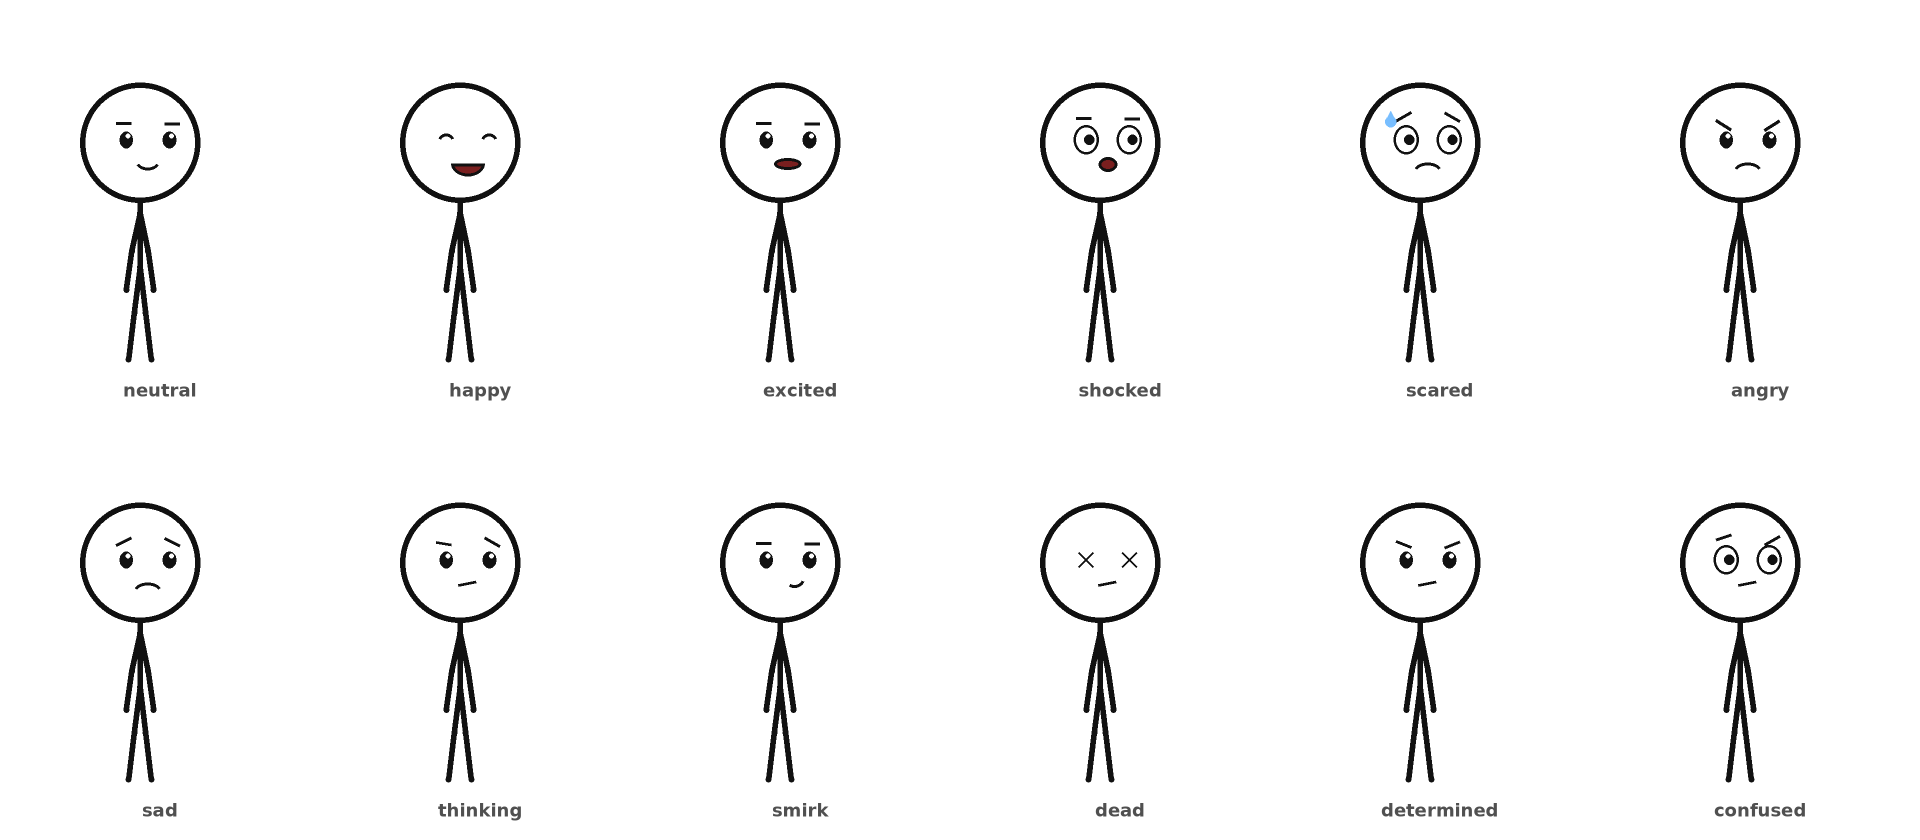
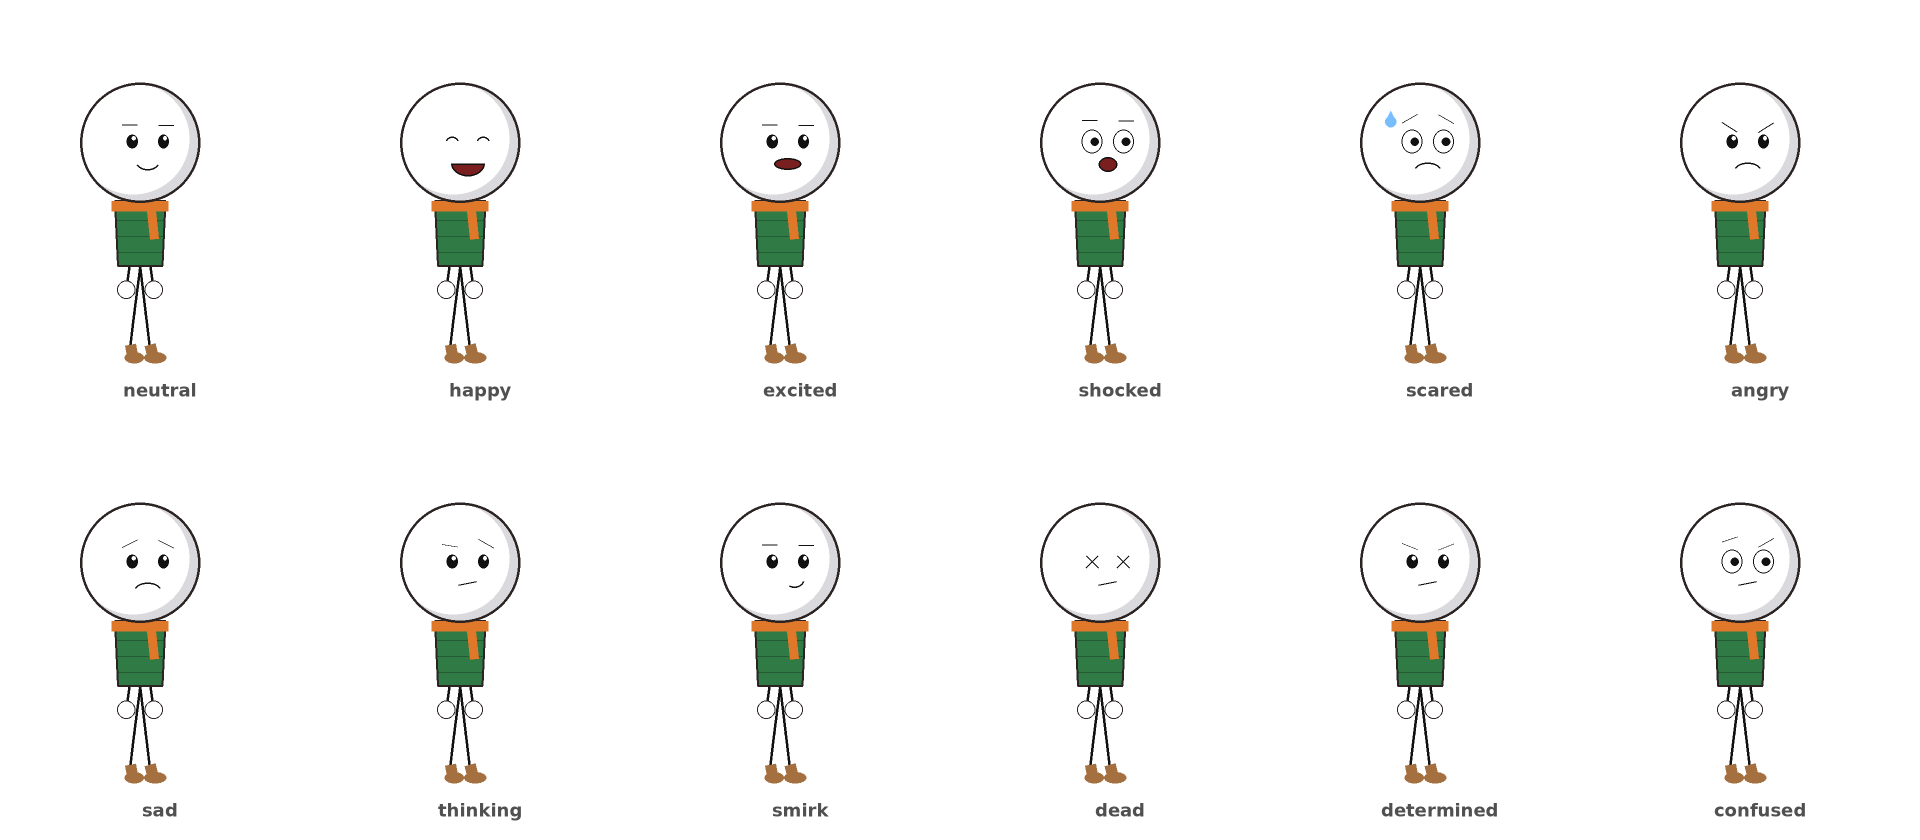
GLAVONJA channel style from 8 real frames: Flow image+motion prompts with exact character description, character references, outfit for fallback character, style migration
Claude-Session: https://claude.ai/code/session_01SEfkzHoZcuciyQGJhcXRDG

diff --git a/GLAVONJA_AI_STUDIO/studio/google_ai.py b/GLAVONJA_AI_STUDIO/studio/google_ai.py
@@ -164,16 +164,28 @@ def audition_voices(sample_text: str, voices: list[str], out_dir: Path, settings
 
 
 # --------------------------------------------------------------------------- Flow bridge
-FLOW_PROMPT = """{shot}
+FLOW_IMAGE_PROMPT = """{shot}
 
-STYLE (must match the GLAVONJA YouTube channel exactly - see attached reference images):
 {style}
+{glavonja}.
+Other characters: {characters}; {extras}.
+Colours and light: {palette}.
+Camera: {camera}.
+Keep GLAVONJA exactly like the attached character reference images (same head, face, outfit, proportions).
+Avoid: {avoid}."""
 
-CHARACTER: the SAME stickman as in the attached character sheet. Do NOT redesign him: same head size,
-same line thickness, same face, same colours, same clothing.  2D flat cartoon, thick clean outlines,
-no 3D, no realistic textures, no text in the image.
-Camera: {camera}.  Duration: {dur:.1f} s.  16:9.
-"""
+FLOW_MOTION_PROMPT = """Animate this image as a short {dur:.0f}-second shot for a YouTube story video: {motion}.
+Keep the exact art style, characters and colours of the image; subtle natural movement, {camera_move}.
+No new characters, no text."""
+
+MOTION = {"idle": "the character breathes and blinks", "talk": "the character talks and gestures",
+          "walk": "the character walks across the scene", "run": "the character runs fast",
+          "jump": "the character jumps", "point": "the character points at the object",
+          "shock": "the character reacts with a shocked jump", "think": "the character thinks, hand on chin",
+          "cheer": "the character cheers with raised arms", "scared": "the character trembles in fear",
+          "fall": "the character falls over", "shrug": "the character shrugs"}
+CAMERA_MOVE = {"slow_zoom_in": "slow camera push-in", "slow_zoom_out": "slow camera pull-out", "pan_left": "slow pan left",
+               "pan_right": "slow pan right", "static": "static camera", "punch_in": "quick camera punch-in"}
 
 
 def flow_requests(project, scenes: list[dict], style: dict) -> Path:
@@ -182,24 +194,35 @@ def flow_requests(project, scenes: list[dict], style: dict) -> Path:
     (folder / "inbox").mkdir(parents=True, exist_ok=True)
     refs = folder / "references"
     refs.mkdir(exist_ok=True)
-    for src in (ROOT / "assets" / "characters").glob("character_sheet*.png"):
-        shutil.copy2(src, refs / src.name)
-    for src in sorted((ROOT / "references" / "frames").glob("*.*"))[:6]:
+    # ONLY real channel material: the GLAVONJA character pictures first, then a few channel frames
+    for src in sorted((ROOT / "references" / "character").glob("*.*"))[:6]:
+        if src.suffix.lower() in (".png", ".jpg", ".jpeg", ".webp"):
+            shutil.copy2(src, refs / ("CHARACTER_" + src.name))
+    for src in sorted((ROOT / "references" / "frames").glob("*.*"))[:4]:
         if src.suffix.lower() in (".png", ".jpg", ".jpeg", ".webp"):
             shutil.copy2(src, refs / src.name)
-    style_txt = "; ".join(f"{k}: {v}" for k, v in (style.get("prompt_style") or {}).items()) or \
-        "flat 2D stickman cartoon, white round head, black thick outlines"
+    ps = style.get("prompt_style") or {}
     lines = ["# Google Flow requests", "",
-             "1. Open https://labs.google/flow  2. For each shot below: upload the images from `references/`,",
-             "paste the prompt, generate.  3. Download the clip and save it into `inbox/` named exactly as shown.",
-             "4. Back in GLAVONJA AI STUDIO press **Continue** - clips are checked and imported automatically.", ""]
+             "For every shot: 1) make the IMAGE in Flow with the image prompt + the pictures from `references/`",
+             "(always add your GLAVONJA character pictures), 2) animate that image with the motion prompt (frames to video),",
+             "3) download the clip and drag it into the studio folder **FLOW_INBOX** - in the same order as the shots below.",
+             "The studio checks every clip against your channel style and asks again for clips that do not match.", ""]
     for sc in scenes:
         if not sc.get("use_flow"):
             continue
         name = f"scene_{sc['id']:03d}.mp4"
-        lines += [f"## {name}  ({sc['duration']:.1f}s)", "```",
-                  FLOW_PROMPT.format(shot=sc.get("description", sc["text"]), style=style_txt,
-                                     camera=sc.get("camera", "static"), dur=sc["duration"]).strip(), "```", ""]
+        main = (sc.get("characters") or [{}])[0]
+        img = FLOW_IMAGE_PROMPT.format(shot=sc.get("description", sc["text"]),
+                                       style=ps.get("style", "detailed hand-drawn 2D cartoon illustration"),
+                                       characters=ps.get("characters", "stickman characters with big round white heads"),
+                                       glavonja=ps.get("glavonja", "GLAVONJA, the main stickman character"),
+                                       extras=ps.get("extras", ""),
+                                       palette=ps.get("palette_light", "warm colours"),
+                                       camera=ps.get("camera", "wide 16:9 shot"), avoid=ps.get("avoid", "no text"))
+        mot = FLOW_MOTION_PROMPT.format(dur=min(8, max(2, sc["duration"])), motion=MOTION.get(main.get("action"), "subtle movement"),
+                                        camera_move=CAMERA_MOVE.get(sc.get("camera"), "static camera"))
+        lines += [f"## Shot {sc['id']} -> {name}  ({sc['duration']:.1f}s)", f"_Narration:_ {sc['text']}", "",
+                  "**1. Image prompt**", "```", img.strip(), "```", "**2. Motion prompt**", "```", mot.strip(), "```", ""]
     out = folder / "FLOW_REQUESTS.md"
     out.write_text("\n".join(lines), encoding="utf-8")
     return out

diff --git a/GLAVONJA_AI_STUDIO/studio/render/character.py b/GLAVONJA_AI_STUDIO/studio/render/character.py
@@ -225,14 +225,64 @@ class Character:
         L("hip", "neck")
         for side in (back, front):
             L(f"sh_{side}", f"elbow_{side}"); L(f"elbow_{side}", f"hand_{side}")
-        # head
+        if s.get("outfit"):
+            self._outfit(d, X, pts, r, S, lw, facing, H)
+        # head (white sphere with soft shading, like the channel)
         hx, hy = X(*pts["head"])
         R = r * S
-        d.ellipse([hx - R, hy - R, hx + R, hy + R], fill=hex2rgb(s["head_fill"]), outline=line, width=lw)
+        d.ellipse([hx - R, hy - R, hx + R, hy + R], fill=hex2rgb(s.get("head_shade", s["head_fill"])))
+        f_ = 1 if facing >= 0 else -1
+        d.ellipse([hx - R * 0.97 - f_ * R * 0.08, hy - R * 0.99, hx + R * 0.9 - f_ * R * 0.08, hy + R * 0.86],
+                  fill=hex2rgb(s["head_fill"]))
+        d.ellipse([hx - R, hy - R, hx + R, hy + R], outline=line, width=lw)
         self._face(d, hx, hy, R, lw, expression, facing, mouth_open, t, blink_seed, head_rot,
                    look=pose.get("look", 0.0))
         self._accessory(d, hx, hy, R, lw, facing)
         return pts
+
+    def _outfit(self, d, X, pts, r, S, lw, facing, H):
+        """GLAVONJA's outfit seen on the channel: green puffer vest, orange scarf, white gloves, brown boots."""
+        s = self.s
+        ink = hex2rgb(s["line_color"])
+        hip, neck = pts["hip"], pts["neck"]
+        # puffer vest: a rounded quad around the torso
+        vx, vy = neck[0] - hip[0], neck[1] - hip[1]
+        L = math.hypot(vx, vy) or 1
+        nx, ny = -vy / L, vx / L
+        w_top, w_bot = 0.085 * H, 0.075 * H
+        top = (neck[0] - vx * 0.05, neck[1] - vy * 0.05)
+        bot = (hip[0] + vx * 0.02, hip[1] + vy * 0.02)
+        poly = [(top[0] + nx * w_top, top[1] + ny * w_top), (top[0] - nx * w_top, top[1] - ny * w_top),
+                (bot[0] - nx * w_bot, bot[1] - ny * w_bot), (bot[0] + nx * w_bot, bot[1] + ny * w_bot)]
+        P = [X(*q) for q in poly]
+        d.polygon(P, fill=hex2rgb(s["vest_color"]))
+        for k in (0.3, 0.55, 0.8):   # quilting
+            a = (top[0] + (bot[0] - top[0]) * k, top[1] + (bot[1] - top[1]) * k)
+            wk = w_top + (w_bot - w_top) * k
+            d.line([X(a[0] + nx * wk * 0.95, a[1] + ny * wk * 0.95), X(a[0] - nx * wk * 0.95, a[1] - ny * wk * 0.95)],
+                   fill=hex2rgb(s["vest_dark"]), width=max(2, lw // 2))
+        d.line(P + [P[0]], fill=ink, width=max(2, int(lw * 0.8)), joint="curve")
+        # scarf: band at the neck + hanging end
+        sc = hex2rgb(s["scarf_color"])
+        n1 = (neck[0] + nx * w_top * 1.1 + vx * -0.12, neck[1] + ny * w_top * 1.1 - vy * 0.12)
+        n2 = (neck[0] - nx * w_top * 1.1 + vx * -0.12, neck[1] - ny * w_top * 1.1 - vy * 0.12)
+        d.line([X(*n1), X(*n2)], fill=sc, width=int(0.035 * H * S))
+        f = 1 if facing >= 0 else -1
+        tail0 = (neck[0] + f * 0.035 * H - vx * 0.12, neck[1] - vy * 0.12)
+        d.line([X(*tail0), X(tail0[0] + f * 0.012 * H, tail0[1] + 0.11 * H)], fill=sc, width=int(0.03 * H * S))
+        # gloves + boots
+        for side in ("l", "r"):
+            gx, gy = X(*pts[f"hand_{side}"])
+            gr = 0.03 * H * S
+            d.ellipse([gx - gr, gy - gr, gx + gr, gy + gr], fill=hex2rgb(s["glove_color"]), outline=ink, width=max(2, lw // 2))
+            fx, fy = pts[f"foot_{side}"]
+            kx, ky = pts[f"knee_{side}"]
+            bx0, by0 = X(fx + (kx - fx) * 0.32, fy + (ky - fy) * 0.32)
+            bx1, by1 = X(fx + f * 0.035 * H, fy + 0.008 * H)
+            bw = int(0.038 * H * S)
+            d.line([bx0, by0, (bx0 + bx1) / 2 - f * bw * 0.2, by1 - bw * 0.3], fill=hex2rgb(s["boot_color"]), width=bw)
+            d.ellipse([min(bx0, bx1) - bw * 0.5, by1 - bw * 0.85, max(bx0, bx1) + bw * 0.4, by1 + bw * 0.15],
+                      fill=hex2rgb(s["boot_color"]))
 
     def _face(self, d, hx, hy, R, lw, expr, facing, mouth_open, t, blink_seed, rot, look=0.0):
         s = self.s

diff --git a/GLAVONJA_AI_STUDIO/studio/core.py b/GLAVONJA_AI_STUDIO/studio/core.py
@@ -134,9 +134,16 @@ def load_style() -> dict:
     """config/style.json is YOUR style (measured/approved, never overwritten by updates).
     It is created from config/style.default.json the first time."""
     p = CONFIG_DIR / "style.json"
+    default = json.loads((CONFIG_DIR / "style.default.json").read_text(encoding="utf-8"))
     if not p.exists():
         shutil.copy2(CONFIG_DIR / "style.default.json", p)
-    return json.loads(p.read_text(encoding="utf-8"))
+    else:  # an old, never measured/approved style file is replaced by the new channel-based default
+        cur = json.loads(p.read_text(encoding="utf-8"))
+        if not cur.get("verified") and "channel_look" not in cur and not cur.get("measured_from_references"):
+            shutil.copy2(p, p.with_suffix(".old.json"))
+            shutil.copy2(CONFIG_DIR / "style.default.json", p)
+    # new keys from updates (e.g. prompt_style) reach existing installations; your own values win
+    return _deep_merge(default, json.loads(p.read_text(encoding="utf-8")))
 
 
 def save_style(style: dict) -> None:

diff --git a/GLAVONJA_AI_STUDIO/GLAVONJA_STYLE_BIBLE.md b/GLAVONJA_AI_STUDIO/GLAVONJA_STYLE_BIBLE.md
@@ -1,12 +1,30 @@
 # GLAVONJA STYLE BIBLE
 
-> **Status: PROVISIONAL – the real channel has not been analysed yet.**
+> **Status: PARTLY OBSERVED – 3 real frames analysed (section 0a). More frames + character pictures still needed.**
 > During development the channel https://www.youtube.com/@Theglavonja could not be opened
 > (YouTube was blocked from the build environment and the vidIQ connector had no credits).
 > Nothing in this document describes the real channel from observation. The rules below are the
 > **production rules** the studio enforces. The **visual values** come from `config/style.json`.
 > Those values become real once you add channel frames and run *Style → Measure style*
 > (`glavonja style learn`), then approve them (`glavonja style approve`).
+
+## 0a. Observed from 3 real frames (sent by the owner, 2026-11-22)
+
+- **Not a flat minimal stickman.** Detailed hand-drawn 2D cartoon illustration (storybook / editorial comic look).
+- **Characters:** large, perfectly round **white sphere heads** with soft grey shading, small black oval eyes,
+  thin eyebrows, very expressive mouths. Thin black stick arms/legs, **white cartoon glove hands**.
+  They often **wear clothes**: puffer jacket + scarf + boots, period clothing, bonnets. Background people are simpler grey stickmen.
+- **Example main character (frame 1):** green quilted puffer jacket, orange scarf, brown boots, white gloves.
+  *Not yet confirmed that this is the permanent GLAVONJA outfit.*
+- **Lines:** thin dark-brown ink (~4 px @1080p), slightly hand-drawn. **Colours:** warm, earthy, muted (brown, ochre, amber),
+  cinematic glowing lamp/candle light, dark vignette; daytime = light-blue sky, soft greens.
+- **Backgrounds:** rich and detailed with depth (subway tunnel, cave, park); cross-section cut-aways for "hidden world" topics.
+- **Composition:** wide 16:9, eye-level, main character mid/right, many small background characters.
+- Measured: brightness 0.29–0.43, saturation 0.32–0.40, auto-calibrated consistency limit 0.107.
+  The studio's procedural fallback stickman scores 0.35 against these frames, so it does **not** match and will
+  never be exported as a final video.
+- These rules are written into `config/style.json` (`channel_look`, `prompt_style`) and go into every Flow prompt
+  (an image prompt first, then a motion prompt).
 
 ## 0. What we know for sure (from the channel owner)
 
